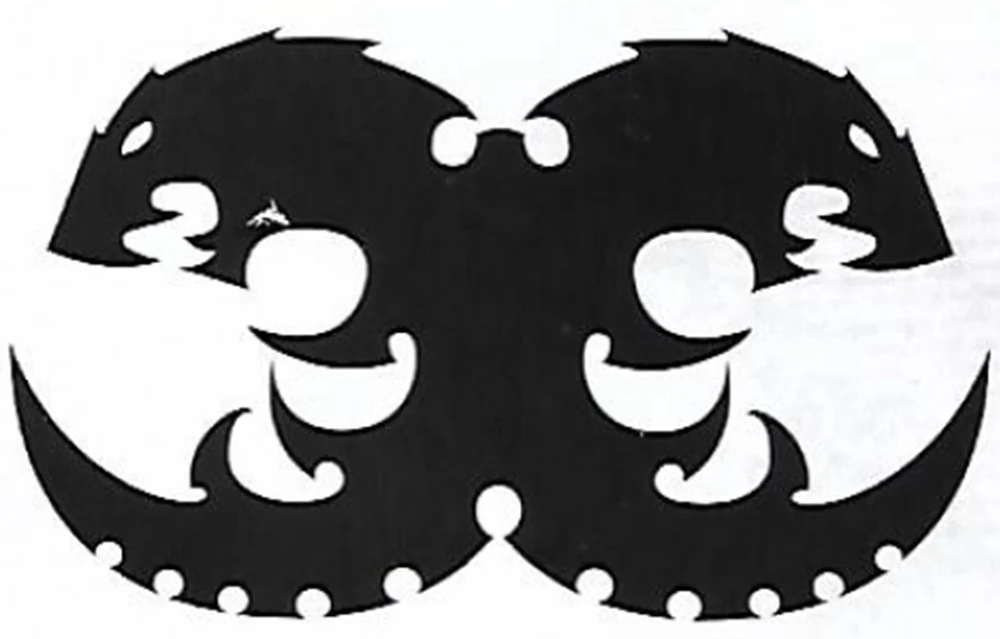
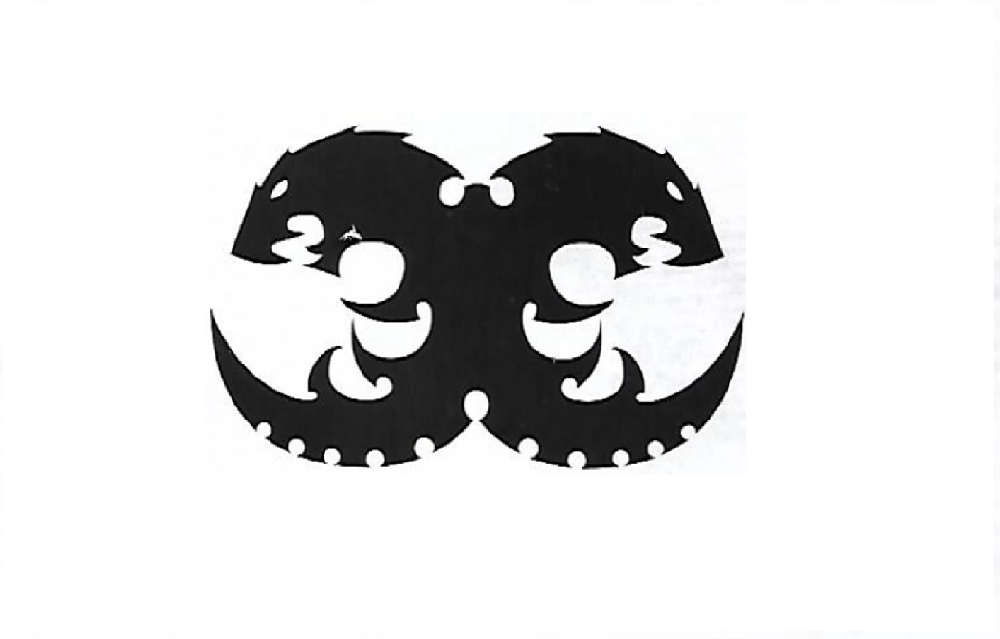
todo

diff --git a/LMSGI/Exercises/PROJECT/Project.css b/LMSGI/Exercises/PROJECT/Project.css
@@ -27,7 +27,7 @@ img {
   height: auto;
   width: 100%;
   height: 100%;
-  object-fit: contain;
+  object-fit: cover;
 }
 
 /* -- DEFINICION DEL SLIDER -- */
